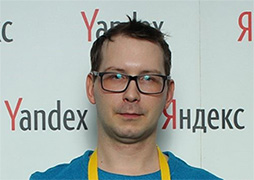
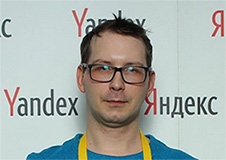
resize img and add border for header

diff --git a/index.html b/index.html
@@ -22,7 +22,7 @@
                     <p>Дизайнер, верстальщик, системный администратор</p>
                 </div>                
                 <div>
-                    <img alt="Евгений" src="img/main-foto.jpg" width="254" height="180">
+                    <img alt="Евгений" src="img/main-foto.jpg" width="226" height="160">
                 </div>
             </header>
 

diff --git a/css/style.css b/css/style.css
@@ -23,6 +23,11 @@ a:hover {
 
 img {
     filter: grayscale(0.3);
+    transition: all 0.5s ease-in-out;
+}
+
+img:hover {
+    filter: grayscale(0);
 }
 
 h1 {
@@ -59,6 +64,7 @@ header {
     width: 100%;
     height: auto;
     padding: 20px 50px;
+    border-bottom: 1px solid black;
 }
 
 header div:nth-child(2) {
